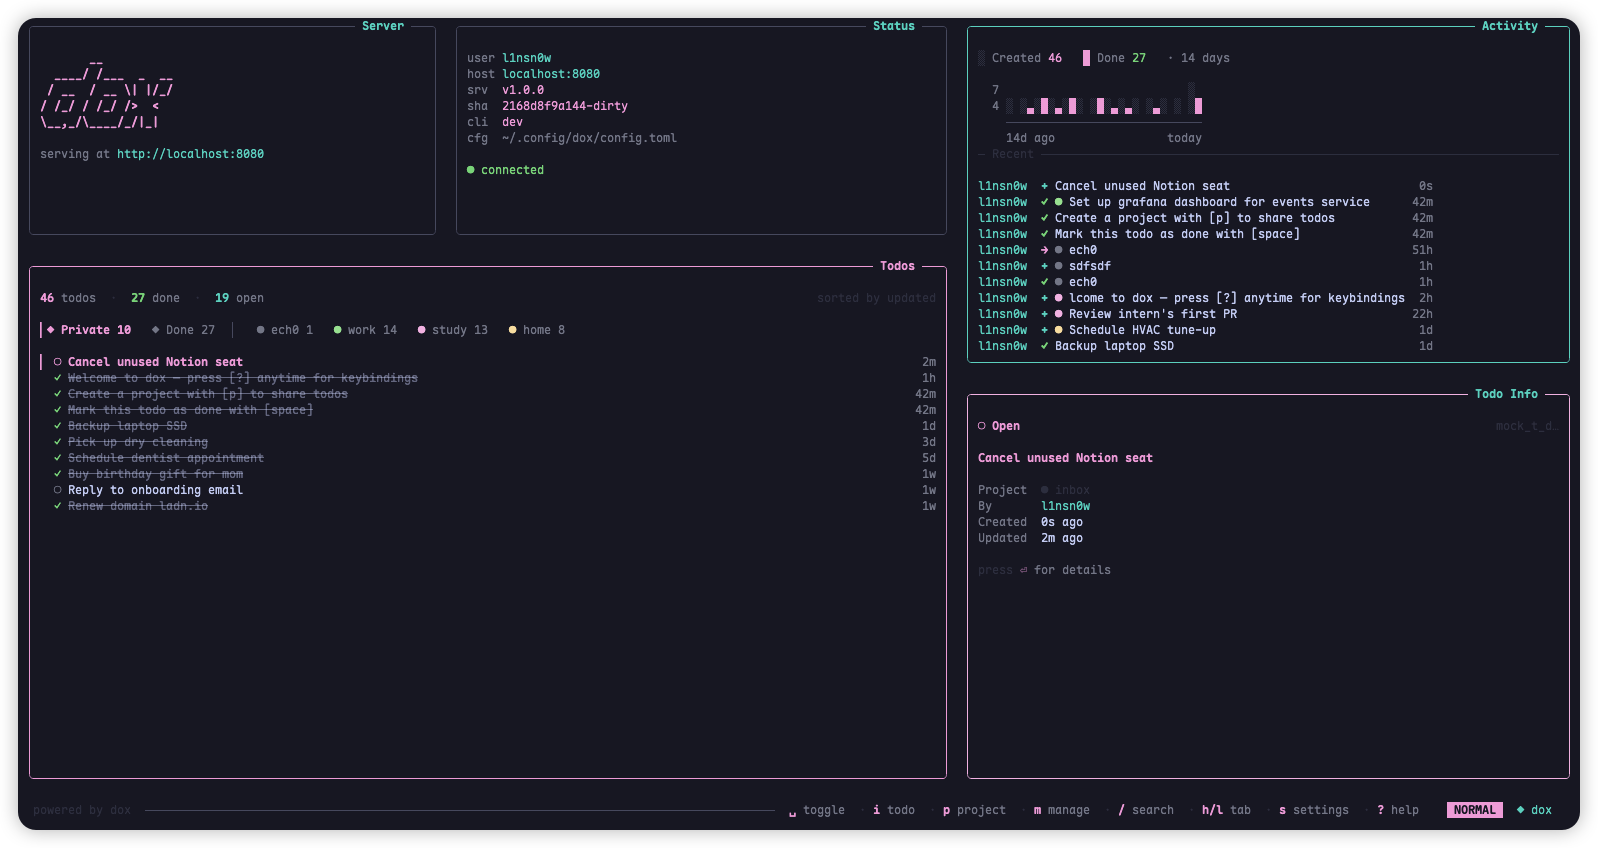
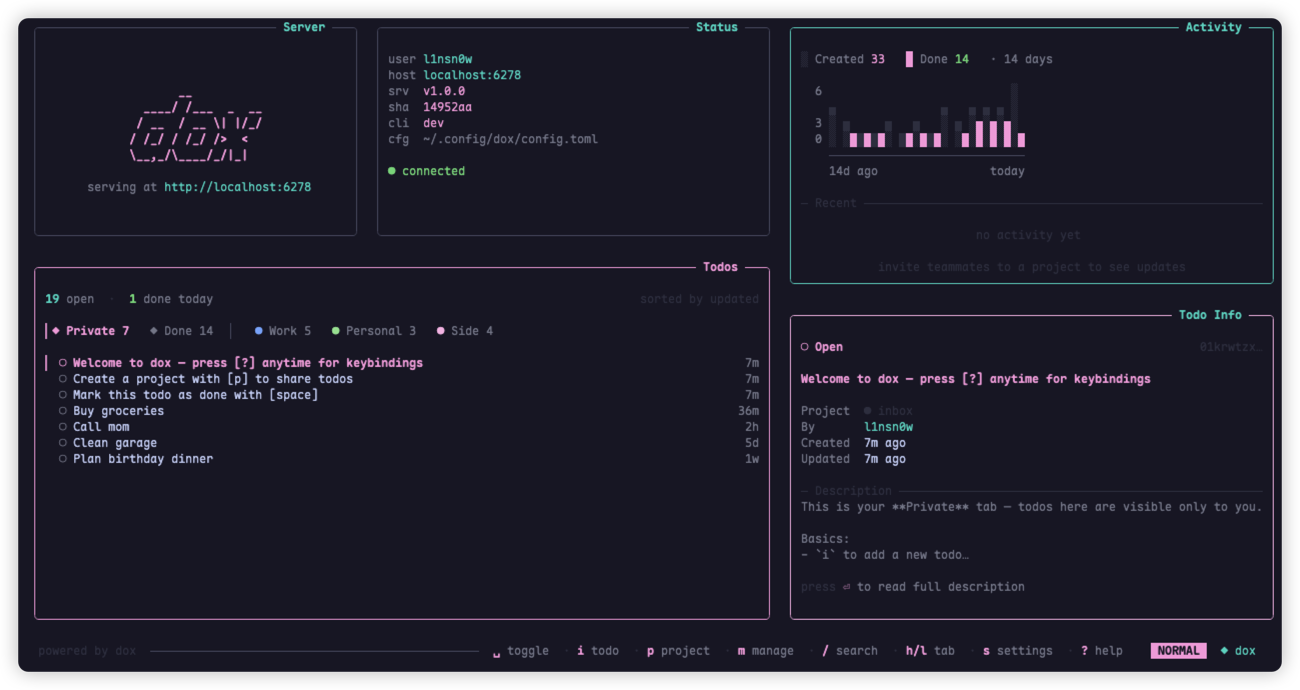
docs: update release process details in CLAUDE.md; modify build script reference

diff --git a/CLAUDE.md b/CLAUDE.md
@@ -91,7 +91,7 @@ Onboarding is non-obvious: read **`docs/onboarding.md`** before touching anythin
 - **Status codes carry meaning** (`authz/authz.go` docstring): NotFound vs PermissionDenied is a deliberate existence-leak control, not interchangeable.
 - **Bus messages and DB mutations must be tx-bound** — call `bus.Publish` from inside `runInTx` with the tx-bound `*queries.Queries`, never from outside the transaction.
 - **`emit_empty_slices: true`** is set in `sqlc.yaml` — sqlc list results are non-nil empty slices, not `nil`. Handlers and tests rely on this.
-- **Releases ship server and CLI from a single tag.** `just release vX.Y.Z` pushes the tag and CI does the rest in parallel jobs: (1) Linux amd64/arm64 server binaries → tarballs on a draft GH Release, (2) multi-arch Docker image → Docker Hub, (3) `apps/cli` bundled via `bun build --target=node` → `npm publish` as `@l1nsn0w/dox` (see `scripts/build-cli.sh` and the `publish-npm` job in `release.yml`). The CLI version is injected at compile time via `--define` from `apps/cli/src/version.ts`, so `dox --version` reports the tag.
+- **Releases ship server and CLI from a single tag.** `just release vX.Y.Z` pushes the tag and CI does the rest in parallel jobs: (1) Linux amd64/arm64 server binaries → tarballs on a draft GH Release, (2) multi-arch Docker image → Docker Hub, (3) `apps/cli` bundled via `bun build --target=node` → `npm publish` as `@l1nsn0w/dox` (see `scripts/build-cli.ts` and the `publish-npm` job in `release.yml`). The CLI version is injected at compile time via `--define` from `apps/cli/src/version.ts`, so `dox --version` reports the tag.
 
 ## Notes for changes
 